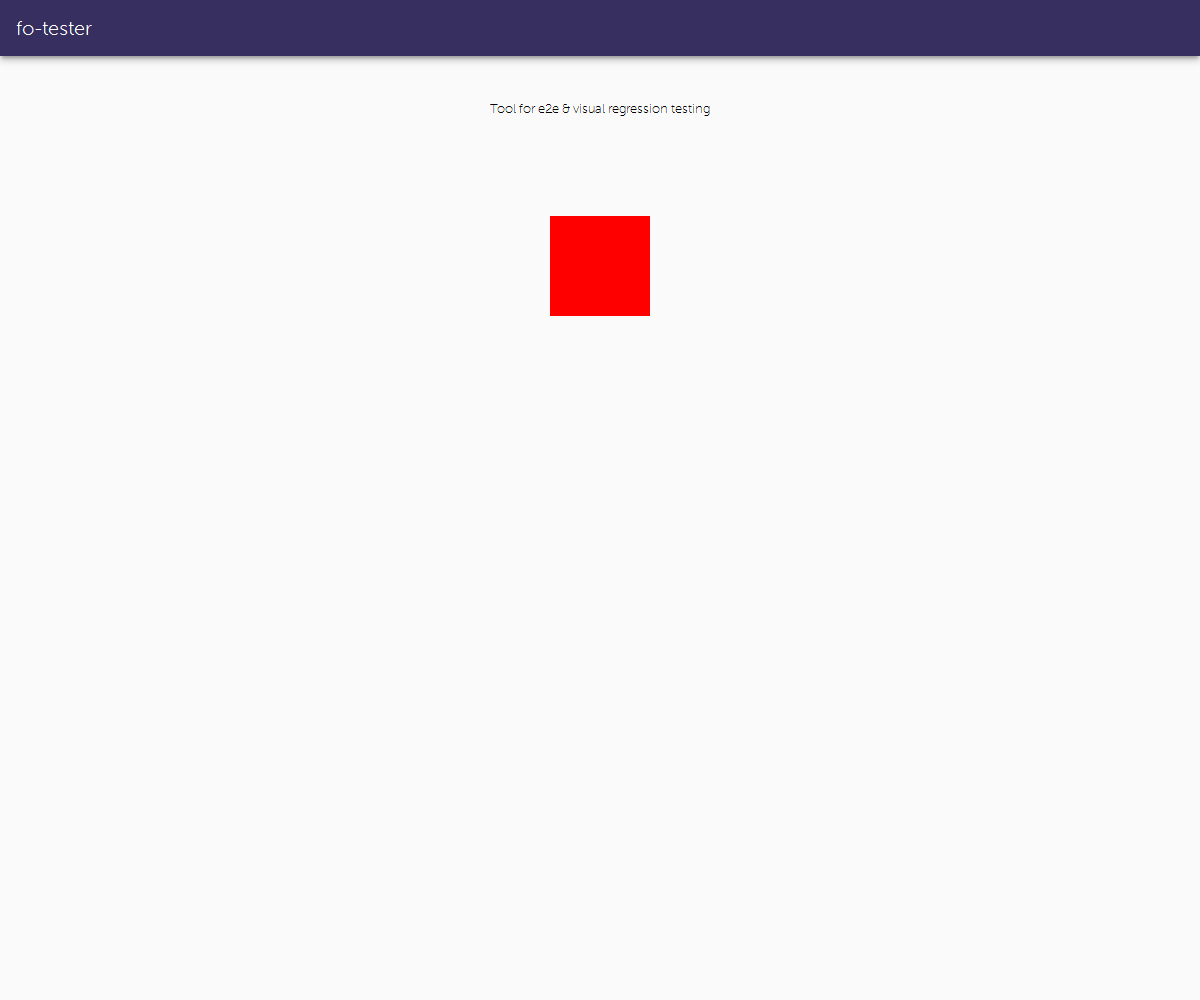
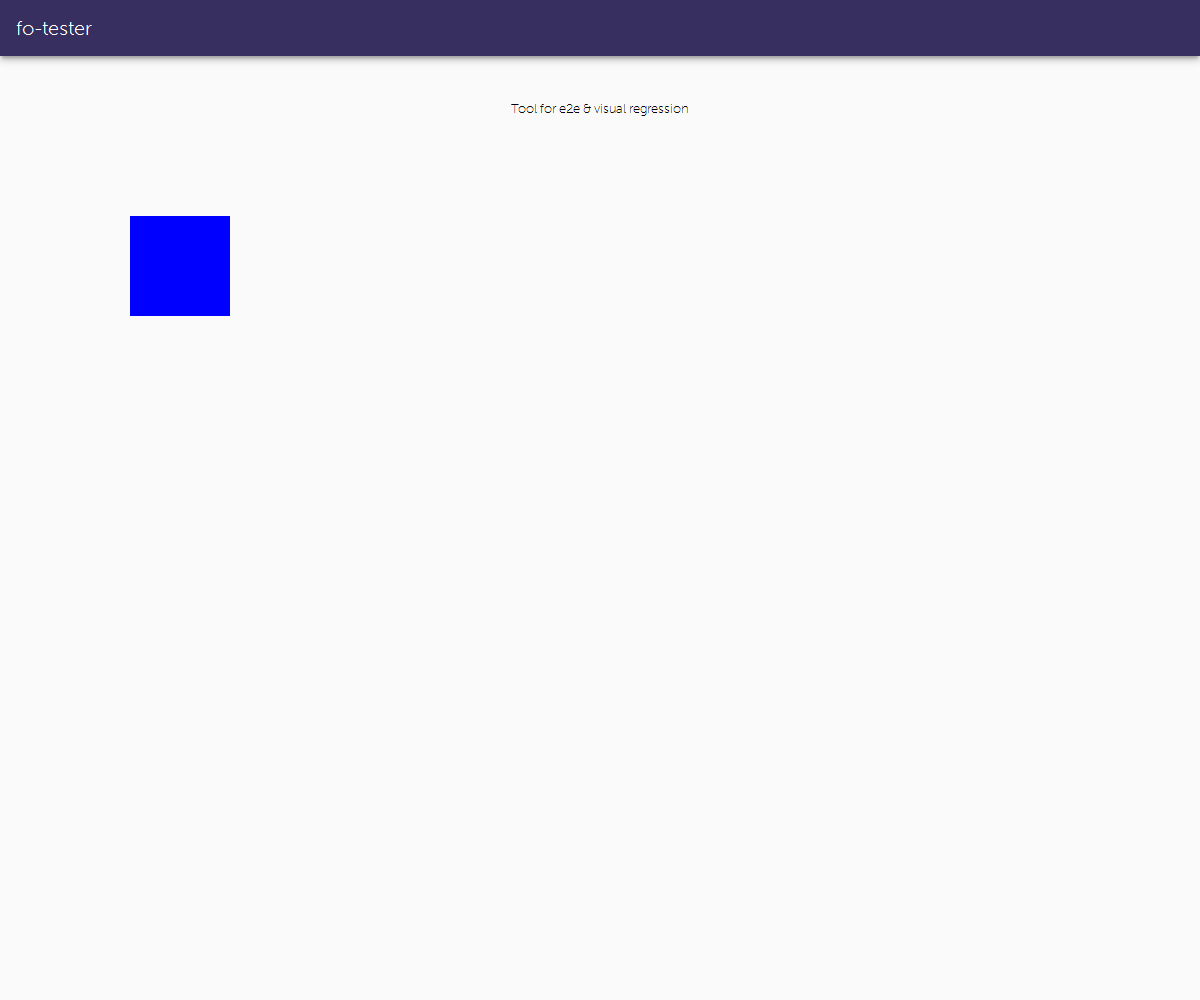
feat(app): update ref

Changed region(s): [[0.4317, 0.217, 0.555, 0.341], [0.0925, 0.217, 0.2158, 0.341], [0.4008, 0.093, 0.5858, 0.124]]

diff --git a/src/app/partials/_content.scss b/src/app/partials/_content.scss
@@ -19,11 +19,11 @@
 
     &__tests {
         &__sample1 {
-            background-color: red;
+            background-color: blue;
             width: 100px;
             height: 100px;
             display: block;
-            margin: 100px auto;
+            margin: 100px 100px;
         }
     }
 }

diff --git a/src/app/partials/_content.html b/src/app/partials/_content.html
@@ -1,5 +1,5 @@
 <div class="content">
-    Tool for e2e & visual regression testing
+    Tool for e2e & visual regression
     <div class="content__tests">
         <div class="content__tests__sample1">
         </div>
